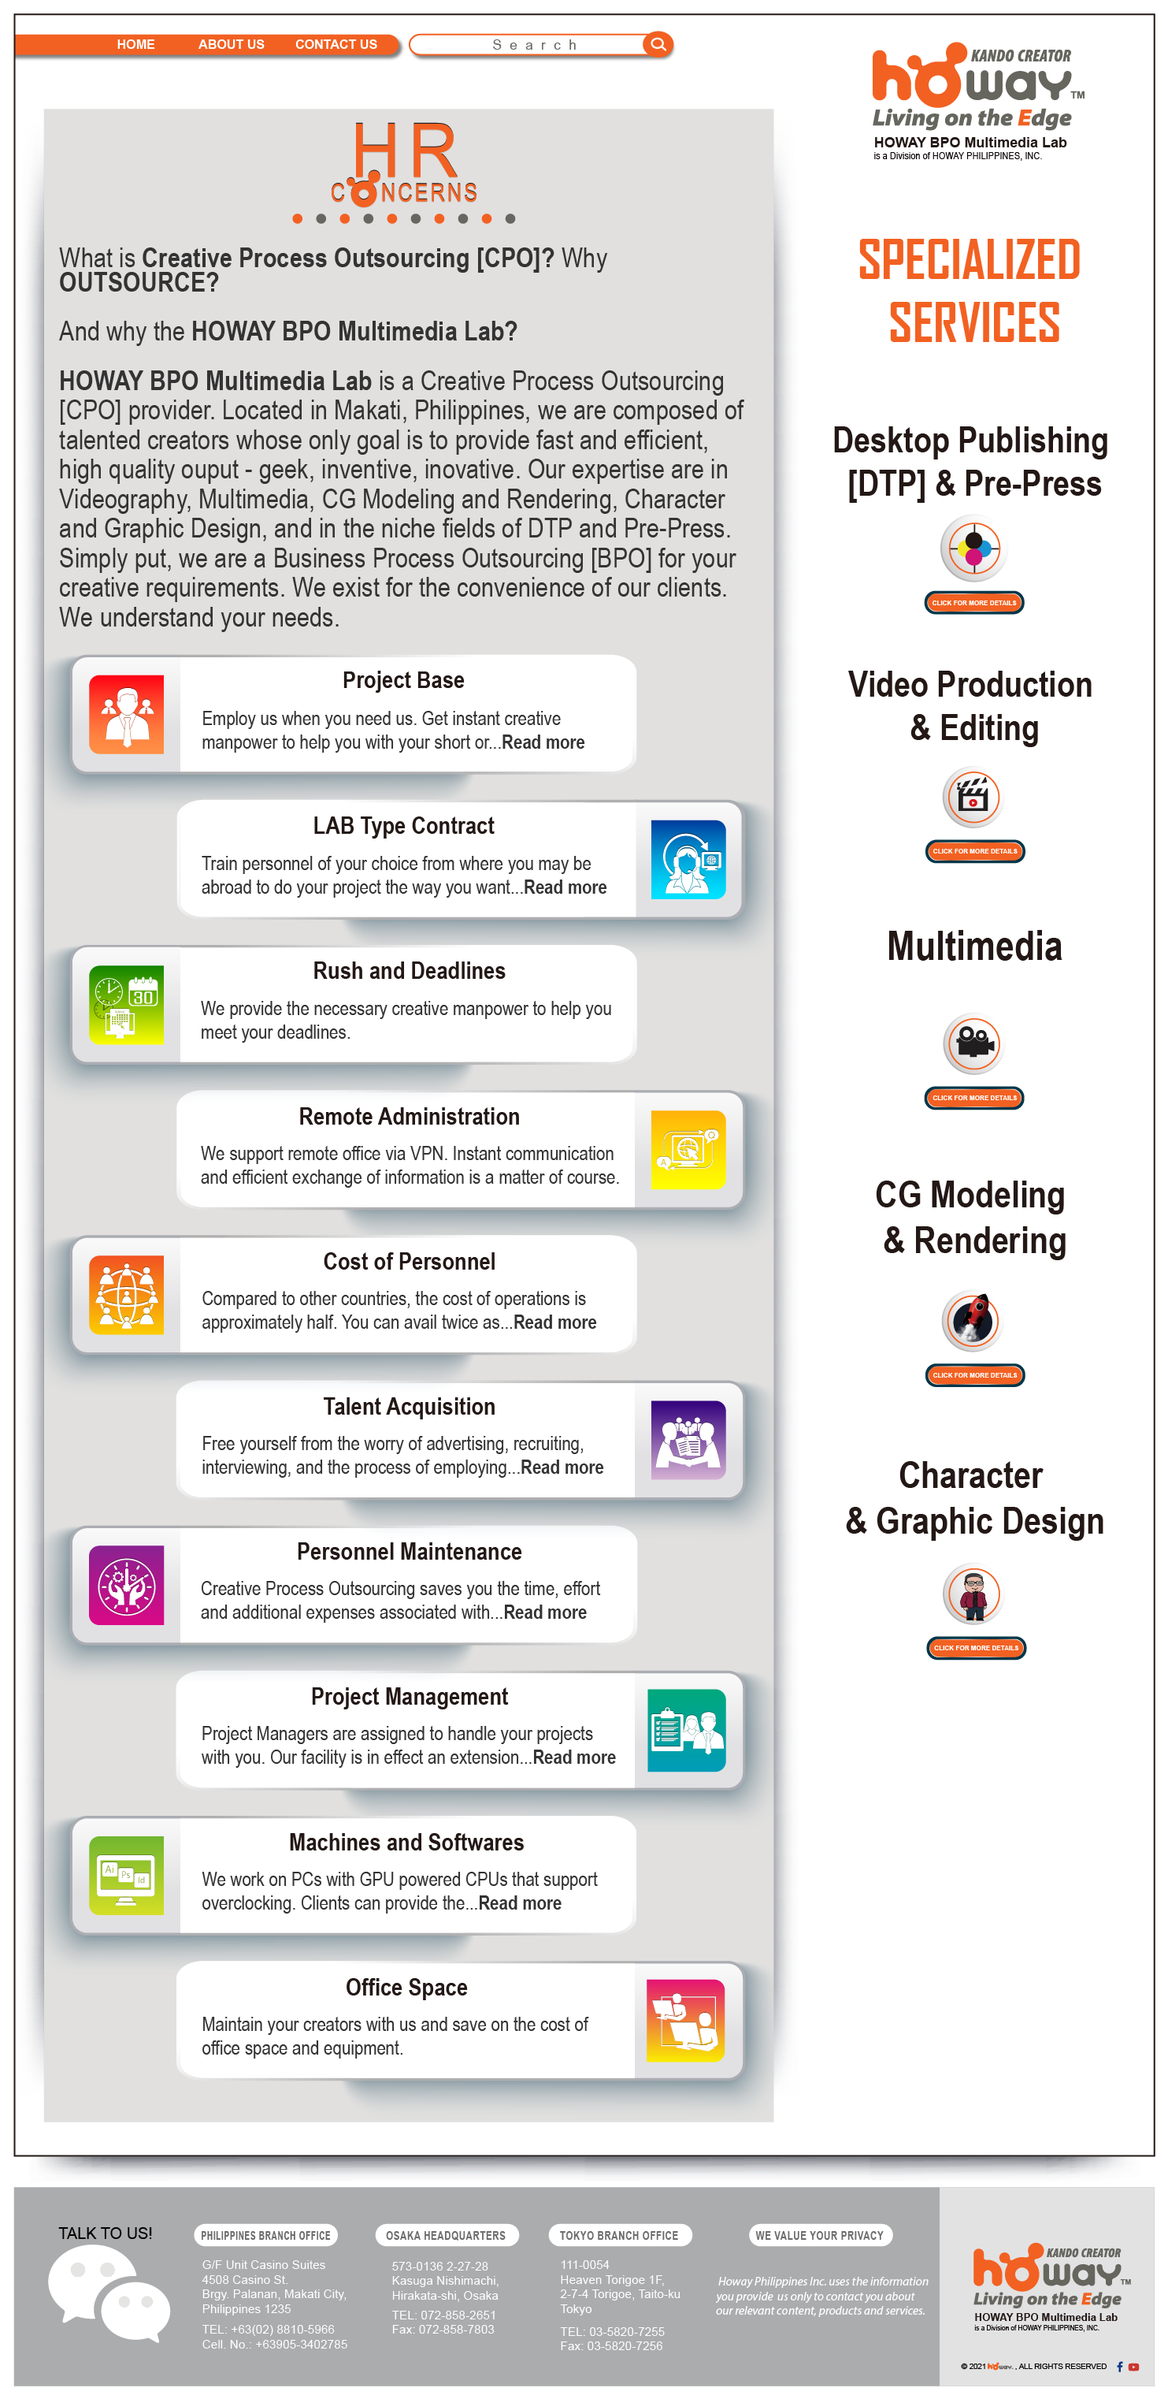
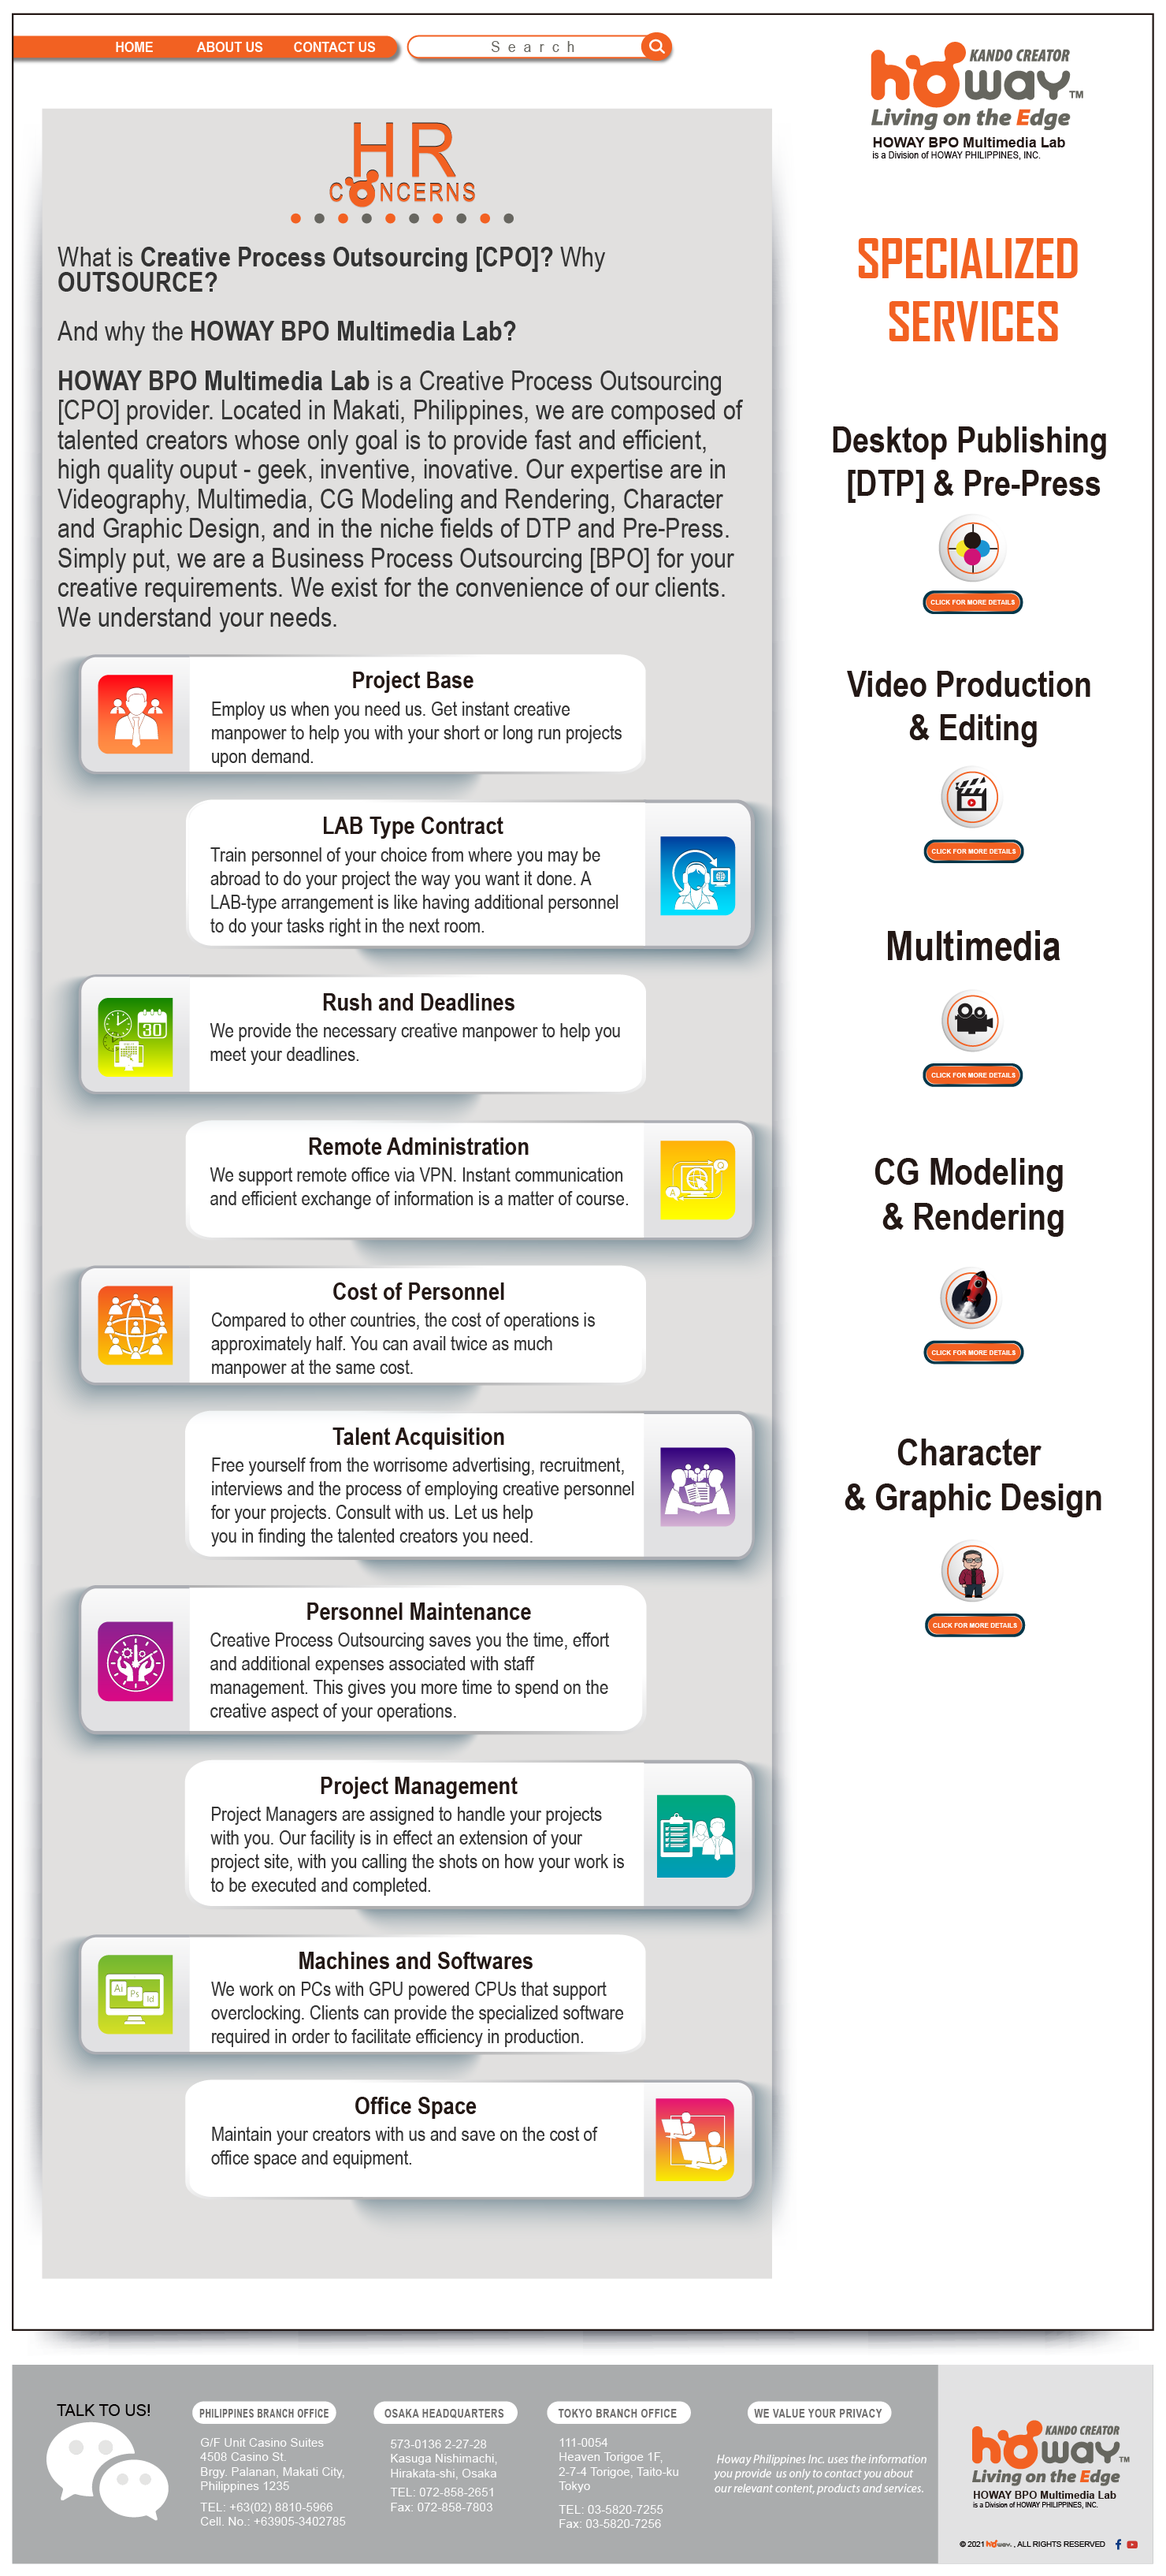
updated

diff --git a/hr.html b/hr.html
@@ -12,18 +12,18 @@
   <body>
    <img src="images/hr.png" alt="Howay Philippines" width="1888" usemap="#Map" style="background-repeat: no-repeat; align-self: center;">
    <map name="Map">
-     <area shape="rect" coords="177,56,265,88" href="index.html">
-     <area shape="rect" coords="312,55,435,89" href="aboutus.html">
-     <area shape="rect" coords="469,55,620,88" href="contactus.html">
+     <area shape="rect" coords="175,60,263,92" href="index.html">
+     <area shape="rect" coords="311,59,434,93" href="aboutus.html">
+     <area shape="rect" coords="467,59,618,92" href="contactus.html">
      <area shape="rect" coords="1397,56,1765,265" href="index.html">
      <area shape="rect" coords="1491,947,1660,999" href="dtp.html">
      <area shape="rect" coords="1491,1351,1661,1399" href="vep.html">
-     <area shape="rect" coords="1486,1750,1662,1798" href="vamgp.html">
-     <area shape="rect" coords="1493,2198,1661,2246" href="cgmr.html">
-     <area shape="rect" coords="1491,2639,1667,2686" href="cgd.html">
-     <area shape="rect" coords="1569,3615,1832,3771" href="index.html">
-     <area shape="rect" coords="1802,3811,1818,3835" href="https://www.facebook.com/HOWAY-BPO-Multi-media-Lab-100115955405460">
-     <area shape="rect" coords="1821,3814,1845,3832" href="https://www.youtube.com/channel/UCM43HgL-CqB2kLJ4PuP5ObtA">
+     <area shape="rect" coords="1488,1718,1664,1766" href="vamgp.html">
+     <area shape="rect" coords="1494,2166,1662,2214" href="cgmr.html">
+     <area shape="rect" coords="1492,2607,1668,2654" href="cgd.html">
+     <area shape="rect" coords="1569,3909,1832,4065" href="index.html">
+     <area shape="rect" coords="1803,4106,1819,4130" href="https://www.facebook.com/HOWAY-BPO-Multi-media-Lab-100115955405460">
+     <area shape="rect" coords="1822,4107,1846,4125" href="https://www.youtube.com/channel/UCM43HgL-CqB2kLJ4PuP5ObtA">
    </map>
  
 
